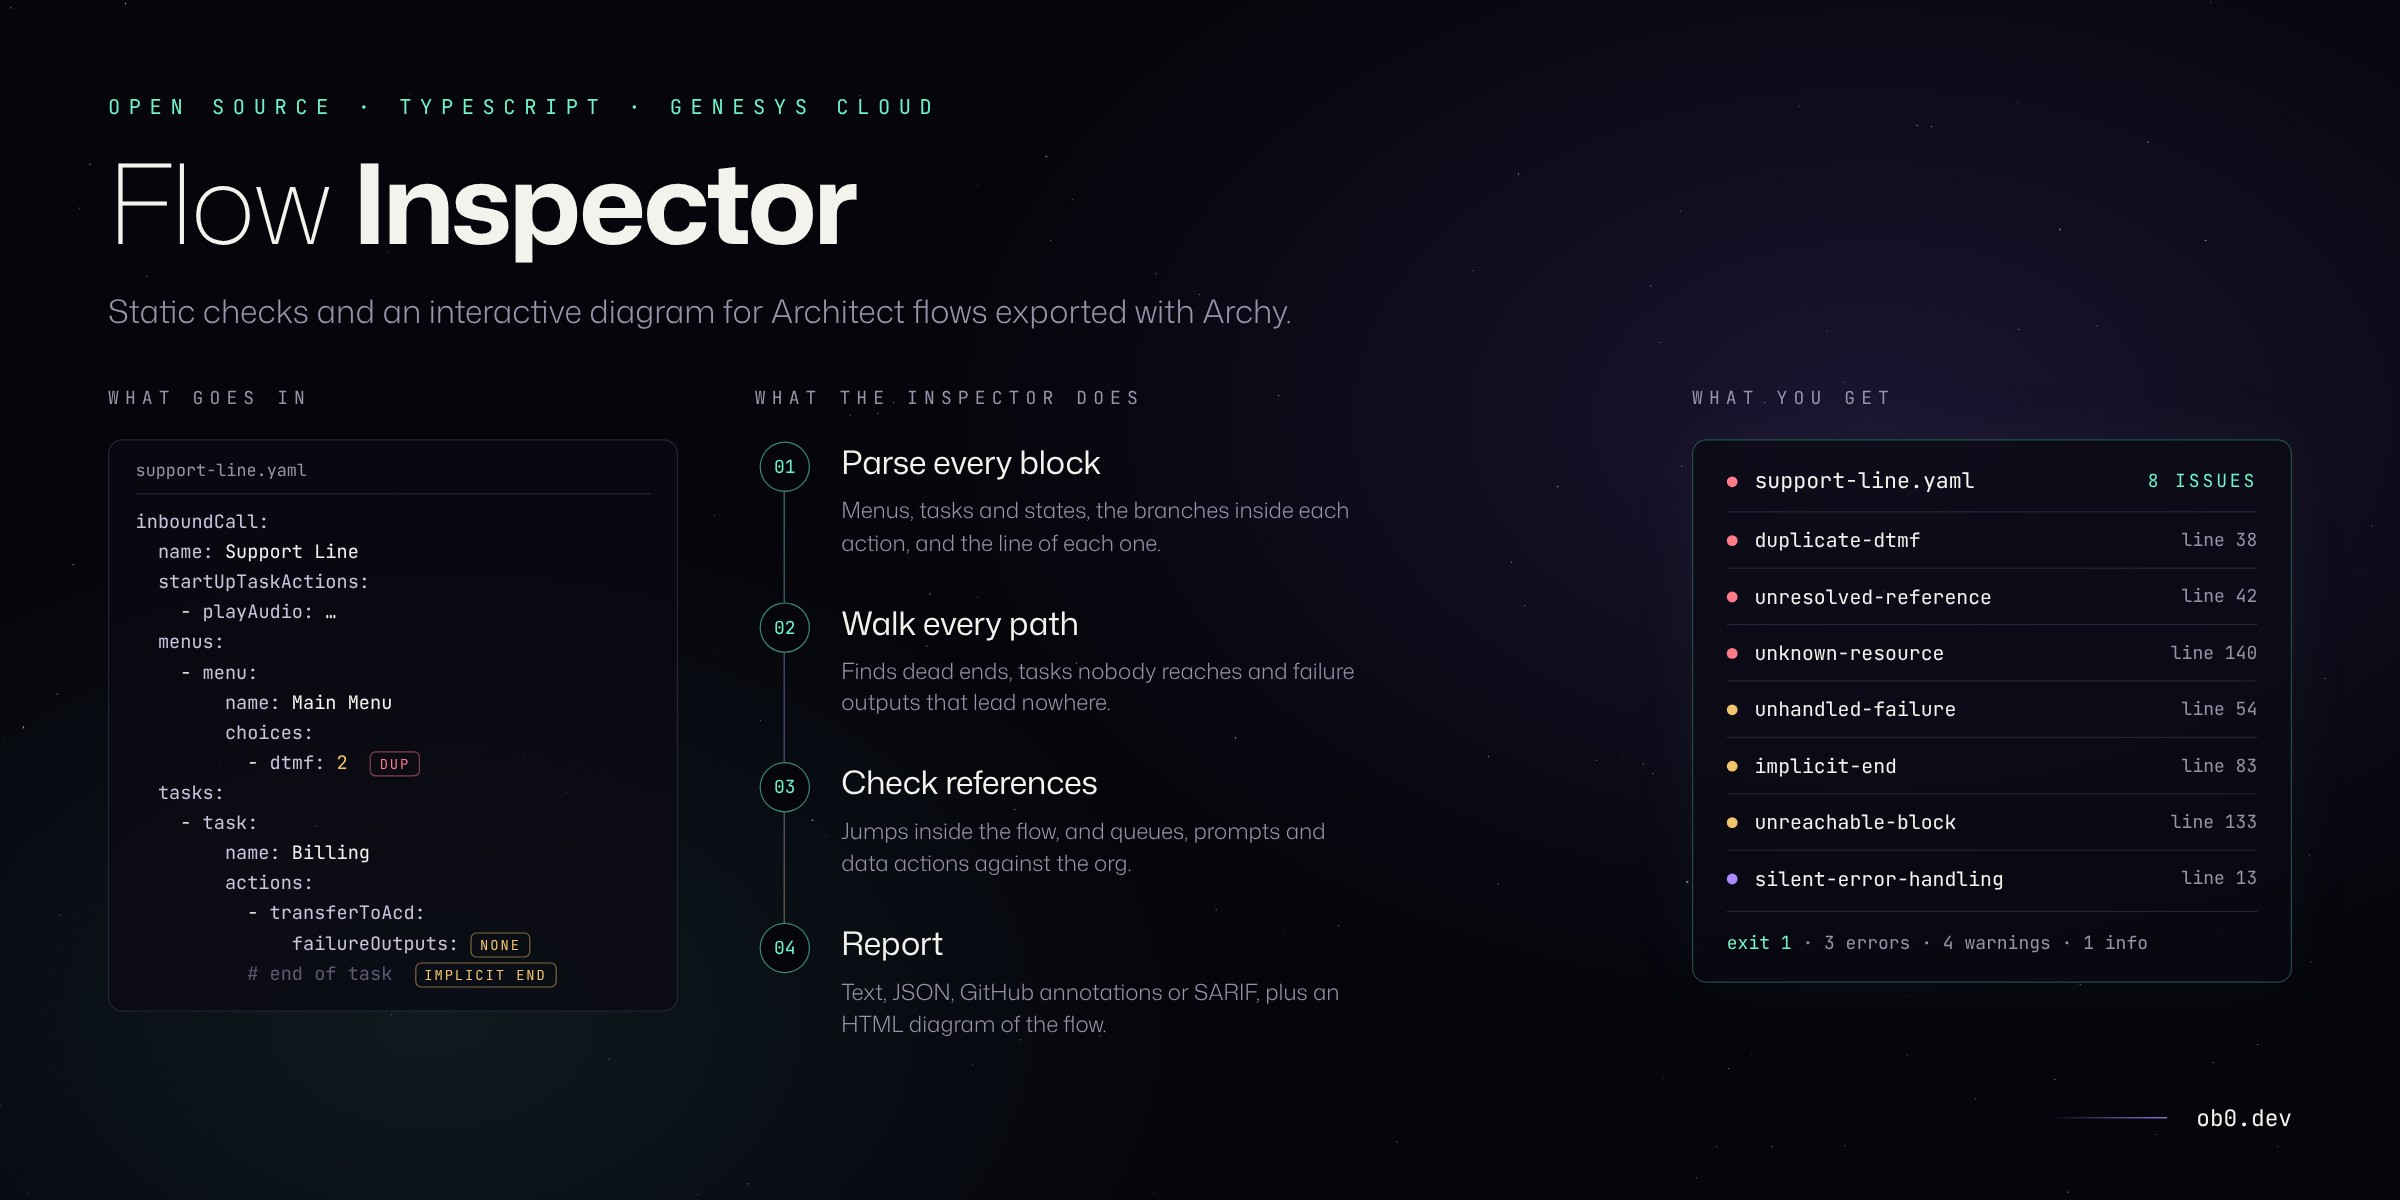
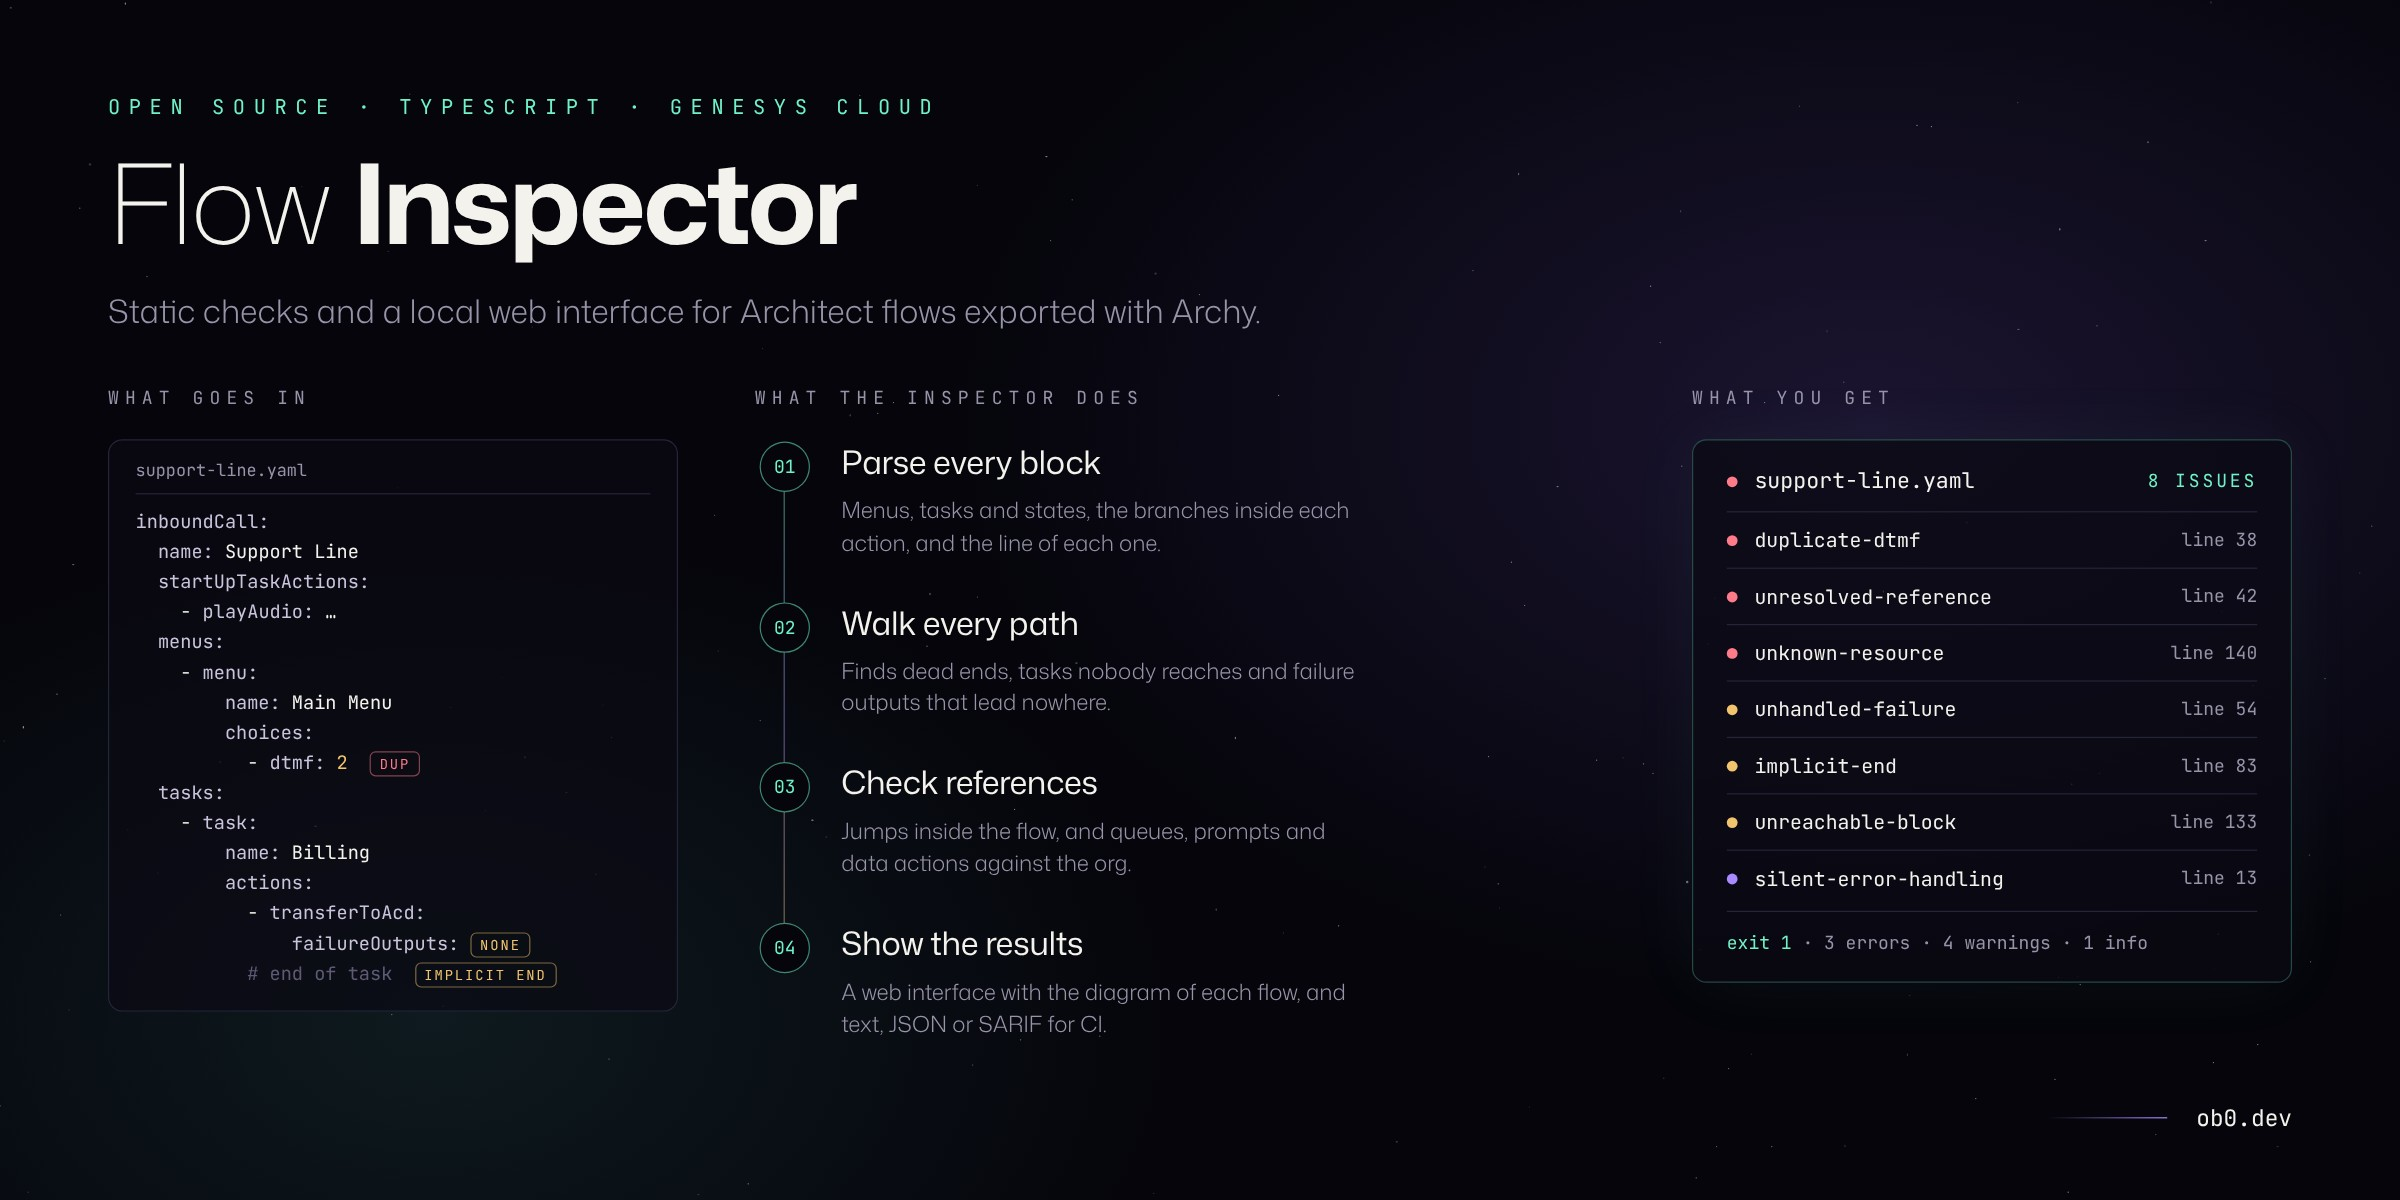
README: lead with the web interface, add quick start

Changed region(s): [[0.3438, 0.7708, 0.5625, 0.8633], [0.1562, 0.2467, 0.5312, 0.2775]]

diff --git a/README.md b/README.md
@@ -1,4 +1,4 @@
-<img src="docs/diagram.jpg" alt="Flow Inspector: an Archy YAML export goes in, every path is followed, issues come out with line numbers" width="100%">
+<img src="docs/diagram.jpg" alt="Flow Inspector: an Archy YAML export goes in, every path is followed, issues come out with line numbers in a web interface or for CI" width="100%">
 
 # genesys-flow-inspector
 
@@ -8,11 +8,26 @@
 
 Genesys Cloud Architect validates a flow when it is published, and that validation checks configuration, not paths. It will not tell you that a caller is dropped at the end of a task when a transfer fails, that a failed data action is ignored and the call carries on as if it had worked, or that two menu choices use the same key. Teams that keep their flows in Git through [Archy](https://developer.genesys.cloud/devapps/archy/) have the YAML, but nothing that reads it.
 
-This tool reads the Archy export, follows every path through the flow and reports those problems with file and line, in a terminal or in CI. It also has a local web interface that draws each flow as an interactive diagram and updates while you edit, and can write a single HTML file to share.
+This tool reads the Archy export, follows every path through the flow and reports those problems with file and line. It runs as a local web interface that draws each flow as an interactive diagram next to its issues and updates while you edit, and as a command line tool for the terminal and CI.
 
-<img src="docs/demo.svg" alt="Terminal demo: linting four Architect flows finds 3 errors, 6 warnings and 1 info, each with its line number and rule" width="100%">
+<img src="docs/app-flow.png" alt="Web interface in dark mode: the support line flow drawn as a diagram, a selected transfer and its implicit-end warning on the right" width="100%">
 
-<sub>Linting the flows in [examples/flows](examples/flows) (`npm run lint:examples`).</sub>
+<sub>`flow-inspector serve` on the flows in [examples/flows](examples/flows) (`npm run serve:example`).</sub>
+
+## Quick start
+
+```sh
+npx github:oebh2408/genesys-flow-inspector serve flows/ --inventory inventory.json
+```
+
+Open http://localhost:4100. `flows/` is a directory of Archy YAML exports (the export command is under [Command line](#command-line)) and the inventory is optional (see [Inventory](#inventory)). To try it on the example flows:
+
+```sh
+git clone https://github.com/oebh2408/genesys-flow-inspector
+cd genesys-flow-inspector
+npm install
+npm run serve:example
+```
 
 ## What it checks
 
@@ -49,7 +64,27 @@ npx github:oebh2408/genesys-flow-inspector lint flows/
 
 Requires Node.js 18 or later.
 
-## Usage
+## Web interface
+
+```sh
+npx flow-inspector serve flows/ --inventory inventory.json
+```
+
+This starts a local server on http://localhost:4100 that lints every flow in the directory and shows the results in the browser. The overview lists all issues across the flows, with filters by severity and rule; clicking one opens the flow with that node selected.
+
+<img src="docs/app-overview.png" alt="Web interface: the example flows in a sidebar, totals per severity and the list of issues across all flows" width="100%">
+
+Each flow is drawn as a diagram with menus, tasks and transfers, as in the image at the top. Click a node to see its YAML and its issues, or click an issue to jump to the node. Nodes in dead code are faded, dashed purple edges are jumps between tasks and menus, and a red dashed node marks where a path ends without a disconnect or transfer. The sidebar has a page with the rules and their severities.
+
+The page reloads the results when a flow, the inventory or the config file changes, so you can keep it open while editing or re-exporting with Archy. The server only listens on 127.0.0.1 and rejects requests with a different `Host` header. It follows the system light or dark theme.
+
+To share one flow, use **Download HTML** in the interface or `view` from the command line. It writes a self-contained file (no scripts or fonts loaded from the network) that can be attached to a ticket or a pull request:
+
+```sh
+npx flow-inspector view flows/support-line.yaml -o support-line.html
+```
+
+## Command line
 
 Export your flows with Archy:
 
@@ -64,6 +99,10 @@ npx flow-inspector lint flows/
 ```
 
 Each issue has the line and column in the YAML file. The exit code is 1 when there are errors, or more warnings than `--max-warnings`.
+
+<img src="docs/demo.svg" alt="Terminal demo: linting four Architect flows finds 3 errors, 6 warnings and 1 info, each with its line number and rule" width="100%">
+
+<sub>Linting the flows in [examples/flows](examples/flows) (`npm run lint:examples`).</sub>
 
 ### Options
 
@@ -104,28 +143,6 @@ Keys can be singular or plural. Values can be plain names, objects with a `name`
 ```
 
 Each rule can be set to `error`, `warning`, `info` or `off`.
-
-## Web interface
-
-```sh
-npx flow-inspector serve flows/ --inventory inventory.json
-```
-
-This starts a local server on http://localhost:4100 that lints every flow in the directory and shows the results in the browser. The overview lists all issues across the flows, with filters by severity and rule; clicking one opens the flow with that node selected.
-
-<img src="docs/app-overview.png" alt="Web interface: the example flows in a sidebar, totals per severity and the list of issues across all flows" width="100%">
-
-Each flow is drawn as a diagram with menus, tasks and transfers. Click a node to see its YAML and its issues, or click an issue to jump to the node. Nodes in dead code are faded, dashed purple edges are jumps between tasks and menus, and a red dashed node marks where a path ends without a disconnect or transfer.
-
-<img src="docs/app-flow.png" alt="Web interface in dark mode: the support line flow with a selected transfer and its implicit-end warning" width="100%">
-
-The page reloads the results when a flow, the inventory or the config file changes, so you can keep it open while editing or re-exporting with Archy. The server only listens on 127.0.0.1 and rejects requests with a different `Host` header. It follows the system light or dark theme.
-
-To share one flow, use **Download HTML** in the interface or `view` from the command line. It writes a self-contained file (no scripts or fonts loaded from the network) that can be attached to a ticket or a pull request:
-
-```sh
-npx flow-inspector view flows/support-line.yaml -o support-line.html
-```
 
 ## In CI
 
@@ -189,7 +206,7 @@ npm test                # rules against the example flows and hand-written cases
 npm run lint:examples
 npm run view:example    # writes example.html
 npm run demo:svg        # re-renders docs/demo.svg from the real lint output
-npm run build && node dist/cli.js serve examples/flows --inventory examples/inventory.json
+npm run serve:example   # web interface on the example flows
 npm run screenshots     # regenerates the interface images, needs a local Chromium
 ```
 
